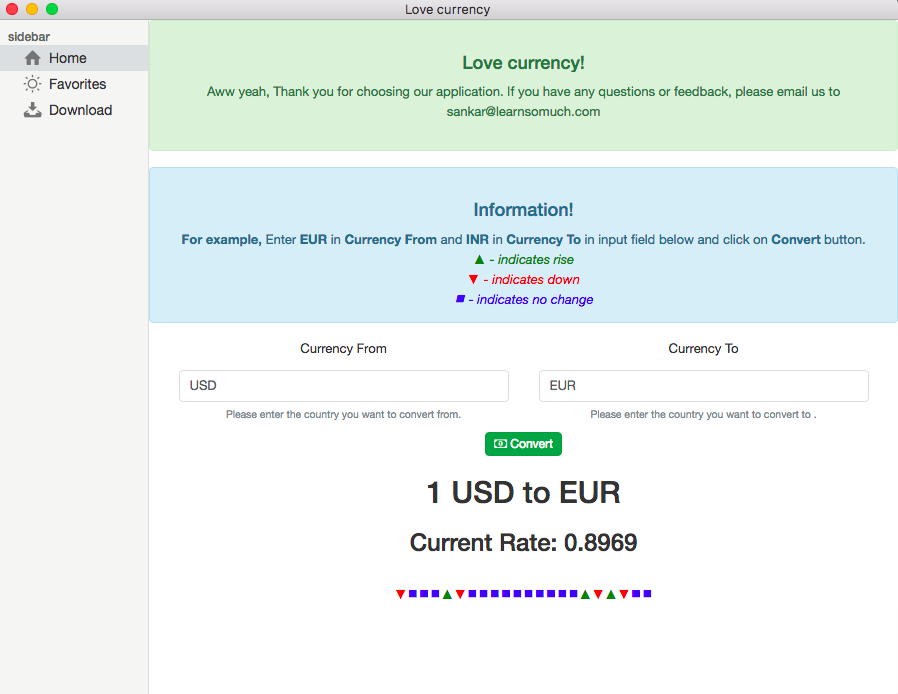
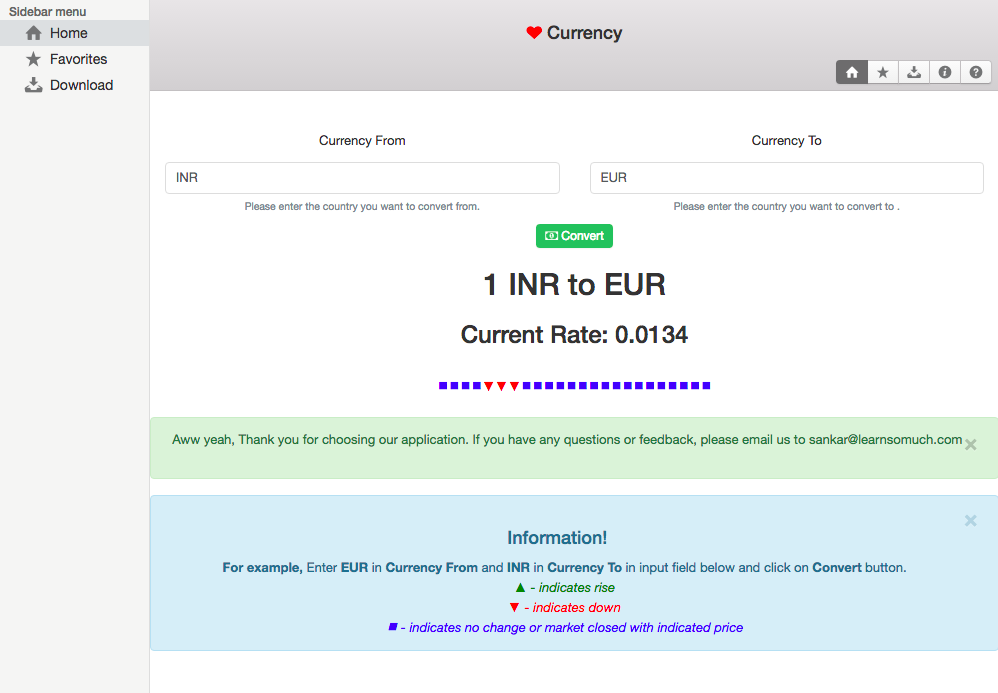
Added screenshot and new app build

diff --git a/LoveCurrency-darwin-x64/LoveCurrency.app/Contents/Resources/app/index.html b/LoveCurrency-darwin-x64/LoveCurrency.app/Contents/Resources/app/index.html
@@ -8,7 +8,7 @@
     <link rel="stylesheet" href="assets/photon.min.css">
     <link rel="stylesheet" href="assets/font-awesome.min.css">
     <link rel="stylesheet" href="assets/custom.css">
-    <script src="app.js"></script>
+
     </head>
 
     <body style="-webkit-app-region: drag">
@@ -20,13 +20,13 @@
         <div class="pane-group">
           <div class="pane-sm sidebar">
             <nav class="nav-group">
-              <h5 class="nav-group-title">sidebar</h5>
+              <h5 class="nav-group-title">Sidebar menu</h5>
               <span class="nav-group-item active">
                 <span class="icon icon-home"></span>
                 Home
               </span>
               <span class="nav-group-item">
-                <span class="icon icon-light-up"></span>
+                <span class="icon icon-star"></span>
                 Favorites
               </span>
               <span class="nav-group-item">
@@ -36,21 +36,38 @@
             </nav>
           </div>
           <div class="pane">
-            <center>
-              <div class="alert alert-success" role="alert">
-                <h4 class="alert-heading">Love currency!</h4>
-                <p>Aww yeah, Thank you for choosing our application. If you have any questions or feedback, please email us to sankar@learnsomuch.com </p>
-              </div>
 
-              <div class="alert alert-info" role="alert">
-                  <h4 class="alert-heading">Information!</h4>
-                  <strong>For example,</strong> Enter <strong>EUR</strong> in <strong>Currency From</strong> and <strong>INR</strong> in <strong>Currency To</strong> in input field below and click on <strong>Convert</strong> button.<br/>
-                  <i class="up">▲ - indicates rise</i><br/>
-                  <i class="down">▼ - indicates down</i><br/>
-                  <i class="noChange">◼ - indicates no change</i><br/>
-              </div>
+
+            <header class="toolbar toolbar-header">
+              <center>
+                <h4 class="navbar"><span class="icon icon-heart"></span> Currency</h4>
+              </center>
+                <div class="toolbar-actions" align="right">
+                  <div class="btn-group">
+                    <button class="btn btn-default active">
+                      <span class="icon icon-home"></span>
+                    </button>
+                    <button class="btn btn-default">
+                      <span class="icon icon-star"></span>
+                    </button>
+                    <button class="btn btn-default">
+                      <span class="icon icon-download"></span>
+                    </button>
+                    <button class="btn btn-default showinfo">
+                      <span class="icon icon-info-circled"></span>
+                    </button>
+                    <button class="btn btn-default showhelp">
+                      <span class="icon icon-help-circled"></span>
+                    </button>
+                  </div>
+                </div>
+            </header>
+
+            <center>
+
 
               <div class="container">
+                <br/><br/>
                 <form>
                 <div class="row">
                  <div class="col-sm-6">
@@ -80,6 +97,25 @@
               <h3 id="company"></h3>
               <div class="the-price" id="price"></div>
               <div class="up-down" id="priceHistory"></div>
+              <br/>
+              <div class="alert alert-success fade showhelpalert" id="demo" role="alert">
+                <button type="button" class="close" data-dismiss="alert">
+                  <span>&times;</span>
+                </button>
+                  <p>Aww yeah, Thank you for choosing our application. If you have any questions or feedback, please email us to sankar@learnsomuch.com </p>
+              </div>
+
+              <div class="alert alert-info alert-dismissible fade showinfoalert" role="alert">
+                <button type="button" class="close" data-dismiss="alert" aria-label="Close">
+                  <span aria-hidden="true">&times;</span>
+                </button>
+                  <h4 class="alert-heading">Information!</h4>
+                  <strong>For example,</strong> Enter <strong>EUR</strong> in <strong>Currency From</strong> and <strong>INR</strong> in <strong>Currency To</strong> in input field below and click on <strong>Convert</strong> button.<br/>
+                  <i class="up">▲ - indicates rise</i><br/>
+                  <i class="down">▼ - indicates down</i><br/>
+                  <i class="noChange">◼ - indicates no change or market closed with indicated price</i><br/>
+              </div>
+
             </center>
           </div>
         </div>
@@ -90,6 +126,7 @@
       <script src="assets/tether.min.js"></script>
       <script src="assets/jquery-2.2.4.min.js"></script>
       <script src="assets/bootstrap.min.js"></script>
+      <script src="app.js"></script>
 
     </body>
 </html>

diff --git a/index.html b/index.html
@@ -40,7 +40,7 @@
 
             <header class="toolbar toolbar-header">
               <center>
-                <h1 class="navbar"><span class="icon icon-heart"></span> Currency</h1>
+                <h4 class="navbar"><span class="icon icon-heart"></span> Currency</h4>
               </center>
                 <div class="toolbar-actions" align="right">
                   <div class="btn-group">
@@ -97,7 +97,7 @@
               <h3 id="company"></h3>
               <div class="the-price" id="price"></div>
               <div class="up-down" id="priceHistory"></div>
-
+              <br/>
               <div class="alert alert-success fade showhelpalert" id="demo" role="alert">
                 <button type="button" class="close" data-dismiss="alert">
                   <span>&times;</span>

diff --git a/LoveCurrency-darwin-x64/LoveCurrency.app/Contents/Resources/app/app.js b/LoveCurrency-darwin-x64/LoveCurrency.app/Contents/Resources/app/app.js
@@ -1,3 +1,14 @@
+/* Jquery for shortcut buttons about help and info with bootstrap alert messages */
+$(".showhelp").on("click", function() {
+    //$(".alert").removeClass("in").show();
+	  $(".showhelpalert").delay(200).addClass("in");
+});
+$(".showinfo").on("click", function() {
+    //$(".alert").removeClass("in").show();
+	  $(".showinfoalert").delay(200).addClass("in");
+});
+
+/* Convert function based on user input */
 function convert() {
 
   var fromcurrency = document.getElementById('from').value;
@@ -16,6 +27,7 @@ function convert() {
 
   }, 1800);
 
+  /* Request new Rate and update up, down or nochange status */
   var lastPrice;
   function newRate(content) {
     currentRate = content.query.results.rate.Rate;

diff --git a/LoveCurrency-darwin-x64/LoveCurrency.app/Contents/Resources/app/main.js b/LoveCurrency-darwin-x64/LoveCurrency.app/Contents/Resources/app/main.js
@@ -6,7 +6,7 @@ let win
 
 function createWindow () {
   // Create the browser window.
-  win = new BrowserWindow({width: 900, height: 700 })
+  win = new BrowserWindow({width: 1000, height: 700, frame: false})
 
   // and load the index.html of the app.
   win.loadURL(`file://${__dirname}/index.html`)

diff --git a/LoveCurrency-darwin-x64/LoveCurrency.app/Contents/Resources/app/assets/custom.css b/LoveCurrency-darwin-x64/LoveCurrency.app/Contents/Resources/app/assets/custom.css
@@ -11,3 +11,10 @@
   .main {
     align-content: center;
   }
+  .icon-heart {
+    color: red;
+  }
+  .hidden {
+    display: none !important;
+    visibility: hidden !important;
+  }

diff --git a/LoveCurrency-darwin-x64/LoveCurrency.app/Contents/Resources/app/README.md b/LoveCurrency-darwin-x64/LoveCurrency.app/Contents/Resources/app/README.md
@@ -11,6 +11,13 @@ Once you download the source code from here, use `npm install` to install all th
 
 then, use `npm start` to start the application.
 
+## How to build 
+I have updated the build settings for Mac in package.json with build.
+
+you have to use `npm run build` to build the application in Mac. (Tested in MacOS Sierra. Version : 10.12.1)
+
+Latest stable build app is stored in [LoveCurrency.app](https://github.com/learnsomuch/LoveCurrency/tree/master/LoveCurrency-darwin-x64)
+
 ## Sample Screenshot for Mac
 
 ![Alt text](/media/screenshot.png?raw=true "Desktop LoveCurrency Mac application")
@@ -26,3 +33,8 @@ You can email me to sankar@learnsomuch.com for more information.
 * Add option to have favourite currencies
 * should have ability to download currency status in PDF
 * optimise code
+
+### License
+Look for License file in source code.
+
+MIT &copy; 2016
